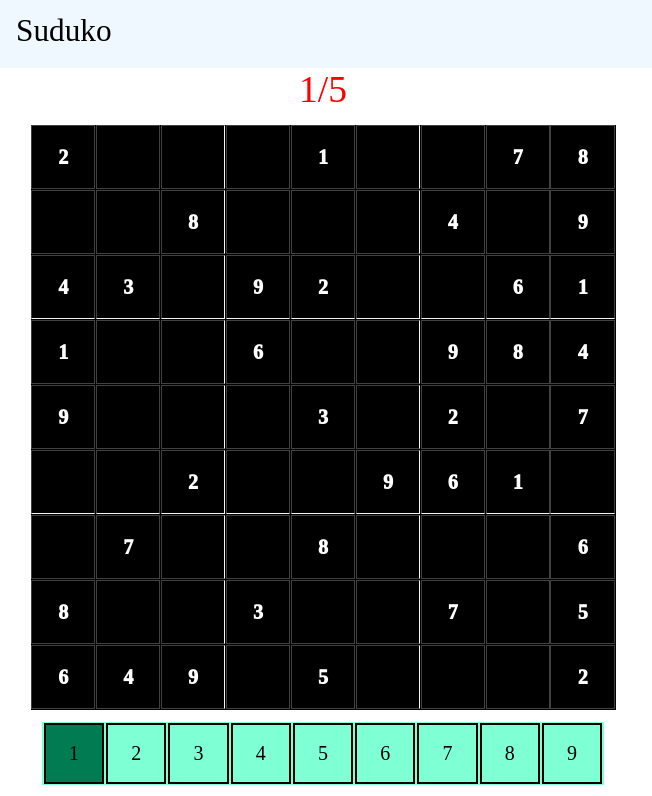
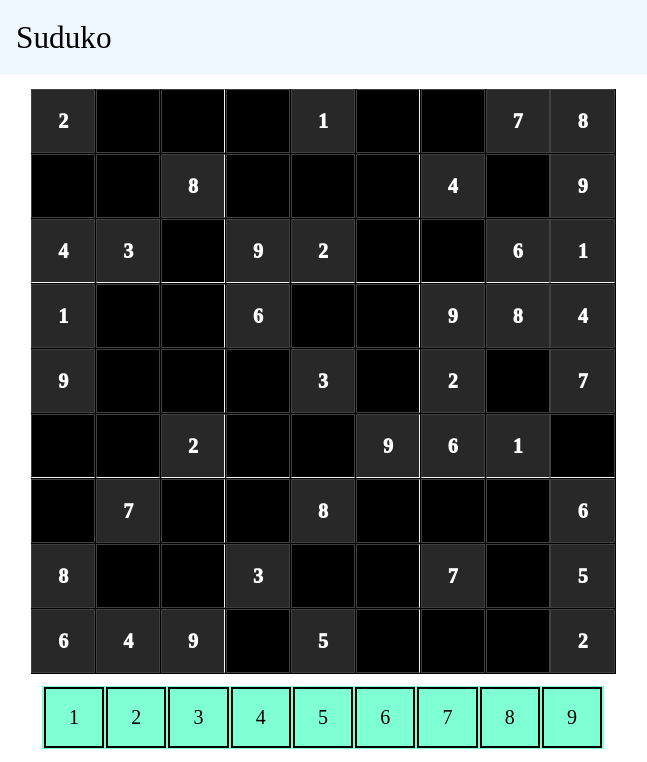
changing suduko bg

diff --git a/allScripts/suduko.js b/allScripts/suduko.js
@@ -56,6 +56,7 @@ function gameContent(){
             if(suduko[i][j] === "-"){
 
             }else{
+                tile.classList.add("bgray")
                 tile.innerText = suduko[i][j]
             }
             tile.id = i +"-" +j

diff --git a/allStyles/suduko.css b/allStyles/suduko.css
@@ -83,6 +83,9 @@
     align-items: center;
 
 }
+.bgray{
+    background-color: #292828;
+}
 .popup-box{
     width: 320px;
     height: 250px;
